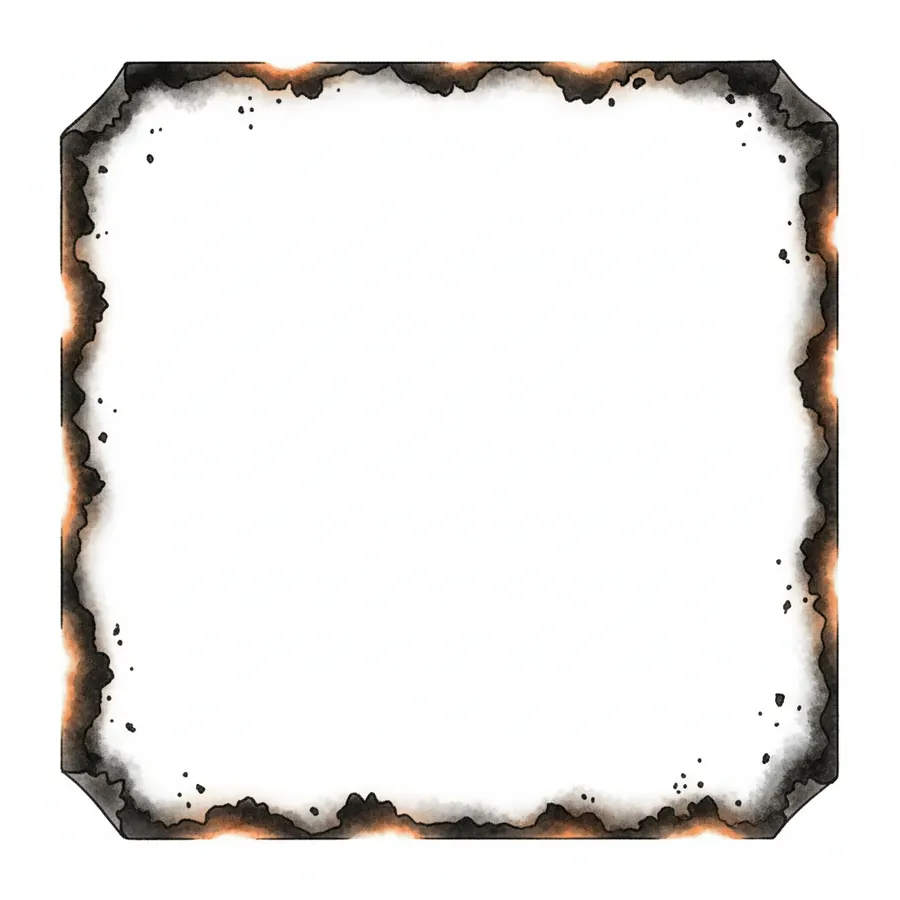
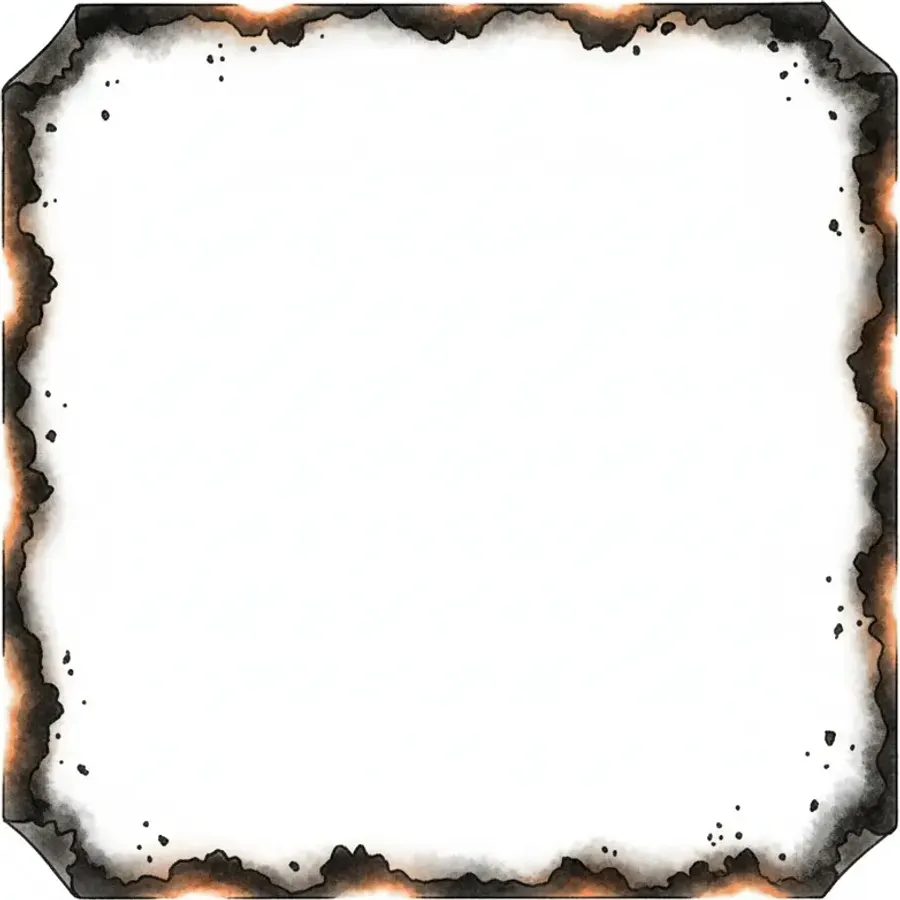
Scorch hugs card edges, stamps drop names, poop paints above smear

diff --git a/src/components/pins/VerdictOverlay.tsx b/src/components/pins/VerdictOverlay.tsx
@@ -23,13 +23,7 @@ const SPLATS = [
   { left: "22%", top: "66%", delay: 2750, size: "text-xl", tilt: "20deg" },
 ];
 
-export default function VerdictOverlay({
-  verdict,
-  byName,
-}: {
-  verdict: "torched" | "shat";
-  byName: string | null;
-}) {
+export default function VerdictOverlay({ verdict }: { verdict: "torched" | "shat" }) {
   return (
     // NB: no z-index here. The overlay must stay in the drawer's stacking
     // context and simply paint after the content, or mix-blend-multiply on the
@@ -46,13 +40,14 @@ export default function VerdictOverlay({
               animation: "burn-glow 2s ease-out both",
             }}
           />
-          {/* charred edges creep in (white background disappears via multiply) */}
+          {/* charred edges creep in (white background disappears via multiply);
+              negative inset bleeds the burn just past the sheet edge */}
           {/* eslint-disable-next-line @next/next/no-img-element */}
           <img
             src="/verdicts/scorch.webp"
             alt=""
-            className="absolute inset-0 h-full w-full mix-blend-multiply"
-            style={{ objectFit: "fill", animation: "scorch-in 1.4s ease-out 0.5s both" }}
+            className="absolute mix-blend-multiply"
+            style={{ inset: "-2.5%", objectFit: "fill", animation: "scorch-in 1.4s ease-out 0.5s both" }}
           />
           {/* rising flames */}
           {FLAMES.map((f, i) => (
@@ -72,7 +67,7 @@ export default function VerdictOverlay({
             className="stamp absolute left-1/2 top-[30%] -translate-x-1/2 bg-paper/90 px-4 py-2 text-lg"
             style={{ animation: "stamp 0.45s cubic-bezier(0.2,1.6,0.4,1) 1.5s both" }}
           >
-            Torched{byName ? ` by ${byName}` : ""} 🔥
+            Torched 🔥
           </span>
         </>
       ) : (
@@ -84,14 +79,8 @@ export default function VerdictOverlay({
           >
             🚽
           </span>
-          {/* payload delivery */}
-          <span
-            className="absolute bottom-16 left-[9%] text-5xl"
-            style={{ animation: "poop-launch 1.5s cubic-bezier(0.3,0.6,0.6,1) 0.55s both" }}
-          >
-            💩
-          </span>
-          {/* the smear drags across (generated artwork, multiply hides the white) */}
+          {/* the smear drags across (generated artwork, multiply hides the white);
+              painted before the poop so the emoji stays on top of its own mess */}
           {/* eslint-disable-next-line @next/next/no-img-element */}
           <img
             src="/verdicts/smear.webp"
@@ -99,6 +88,13 @@ export default function VerdictOverlay({
             className="absolute left-[-5%] top-[16%] w-[110%] max-w-none mix-blend-multiply"
             style={{ animation: "smear-wipe 1.1s ease-out 2.1s both" }}
           />
+          {/* payload delivery */}
+          <span
+            className="absolute bottom-16 left-[9%] text-5xl"
+            style={{ animation: "poop-launch 1.5s cubic-bezier(0.3,0.6,0.6,1) 0.55s both" }}
+          >
+            💩
+          </span>
           {/* residue */}
           {SPLATS.map((s, i) => (
             <span

diff --git a/src/components/pins/PinCard.tsx b/src/components/pins/PinCard.tsx
@@ -23,13 +23,8 @@ export default function PinCard({
   const cover = pin.pin_images[0];
   const linkImage = pin.pin_links.find((l) => l.og_image)?.og_image;
   const rejected = isRejected(pin.status);
-  const verdictBy = memberById(pin.stamped_by)?.name;
   const verdictLabel =
-    pin.status === "torched"
-      ? `🔥 torched${verdictBy ? ` by ${verdictBy}` : ""}`
-      : pin.status === "shat"
-        ? "💩 shat on"
-        : null;
+    pin.status === "torched" ? "🔥 torched" : pin.status === "shat" ? "💩 shat on" : null;
 
   return (
     <article

diff --git a/src/components/pins/PinDetailSheet.tsx b/src/components/pins/PinDetailSheet.tsx
@@ -32,7 +32,6 @@ export default function PinDetailSheet() {
   const author = memberById(pin?.created_by);
   const stamped = pin?.status === "stamped";
   const verdict = pin && isRejected(pin.status) ? (pin.status as "torched" | "shat") : null;
-  const verdictBy = memberById(pin?.stamped_by)?.name ?? null;
 
   function setVerdict(target: PinStatus) {
     if (!pin || !member?.isApprover) return;
@@ -204,7 +203,7 @@ export default function PinDetailSheet() {
               <CommentThread pinId={pin.id} />
             </div>
           )}
-          {pin && verdict && <VerdictOverlay key={pin.id} verdict={verdict} byName={verdictBy} />}
+          {pin && verdict && <VerdictOverlay key={pin.id} verdict={verdict} />}
         </Drawer.Content>
       </Drawer.Portal>
     </Drawer.Root>